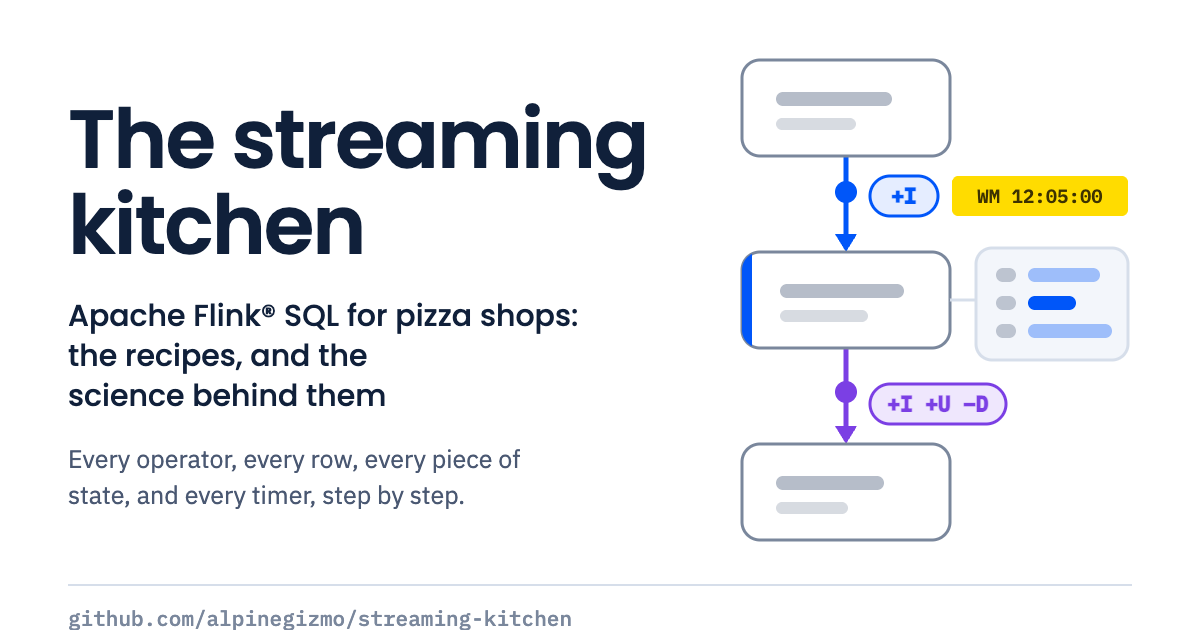
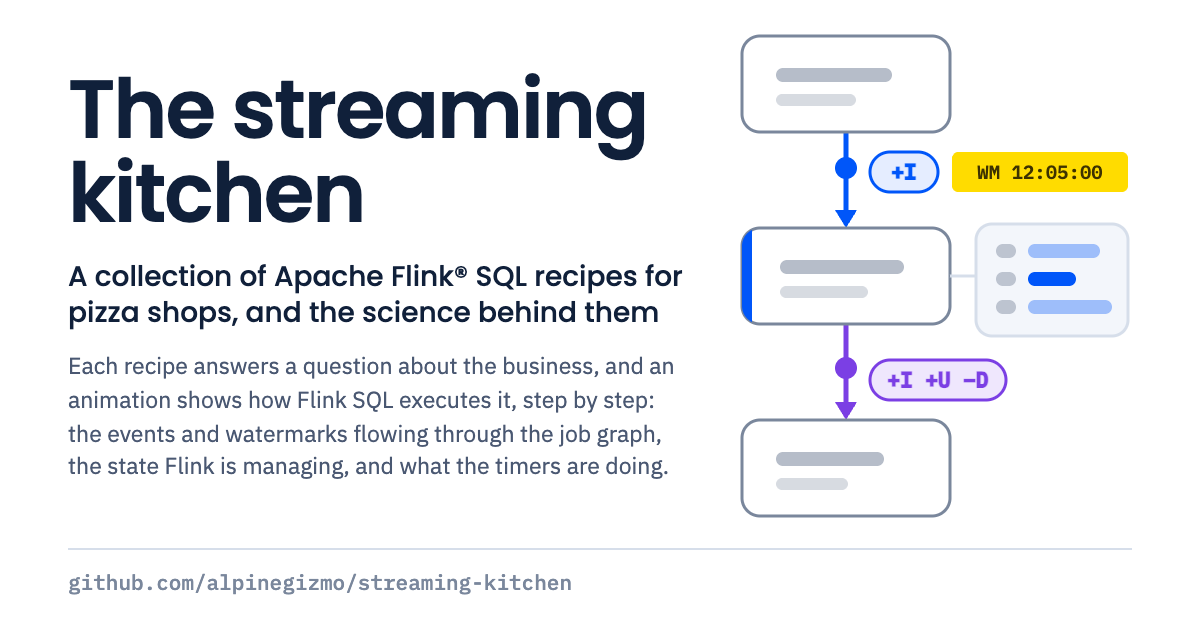
Call the recipes a collection, and update the share card to match
The subtitle, lede, and both meta descriptions use the new wording. The
page's subtitle fits on two lines beside the graph, and the share card
uses the new subtitle and lede, with its contents centred vertically.

diff --git a/index.html b/index.html
@@ -4,11 +4,11 @@
   <meta charset="utf-8">
   <meta name="viewport" content="width=device-width, initial-scale=1">
   <title>The streaming kitchen</title>
-  <meta name="description" content="Apache Flink® SQL for pizza shops: the recipes, and the science behind them. Animated job graphs, stream types, state, timers, and watermarks, with Apache Kafka® sources and sinks.">
+  <meta name="description" content="A collection of Apache Flink® SQL recipes for pizza shops, and the science behind them. Animated job graphs, stream types, state, timers, and watermarks, with Apache Kafka® sources and sinks.">
   <!-- The share card: images/share-card.png, made from tools/share-card.html. -->
   <meta property="og:type" content="website">
   <meta property="og:title" content="The streaming kitchen">
-  <meta property="og:description" content="Apache Flink® SQL for pizza shops: the recipes, and the science behind them. Every operator, every row, every piece of state, and every timer, step by step.">
+  <meta property="og:description" content="A collection of Apache Flink® SQL recipes for pizza shops, and the science behind them. Each recipe answers a question about the business, and an animation shows how Flink SQL executes it, step by step: the events and watermarks flowing through the job graph, the state Flink is managing, and what the timers are doing.">
   <meta property="og:url" content="https://alpinegizmo.github.io/streaming-kitchen/">
   <meta property="og:image" content="https://alpinegizmo.github.io/streaming-kitchen/images/share-card.png">
   <meta property="og:image:width" content="1200">
@@ -38,9 +38,9 @@
     <div class="hero-inner">
       <div class="hero-text">
         <h1>The streaming kitchen</h1>
-        <p class="subtitle"><span>Apache&nbsp;Flink® SQL for pizza shops:</span> <span>the recipes, and the science behind them</span></p>
-        <p class="lede">Each recipe answers a question about the business, gives the SQL,
-          and then shows everything Flink does, step by step: the events and watermarks flowing through
+        <p class="subtitle"><span>A collection of Apache&nbsp;Flink® SQL recipes for pizza shops,</span> <span>and the science behind them</span></p>
+        <p class="lede">Each recipe answers a question about the business, and an animation shows
+          how Flink SQL executes it, step by step: the events and watermarks flowing through
           the job graph, the state Flink is managing, and what the timers are doing.</p>
       </div>
       <!-- A job graph in miniature, drawn like the diagrams below; js/hero.js moves records through it. -->

diff --git a/tools/share-card.html b/tools/share-card.html
@@ -16,14 +16,14 @@
   }
   html, body { margin: 0; width: 600px; height: 315px; overflow: hidden; background: var(--paper); }
   .card {
-    box-sizing: border-box; width: 600px; height: 315px; padding: 28px 34px 18px;
+    box-sizing: border-box; width: 600px; height: 315px; padding: 16px 34px 17px;
     display: grid; grid-template-columns: 1fr 196px; grid-template-rows: 1fr auto; column-gap: 26px;
   }
   .text { align-self: center; }
   h1 { margin: 0; color: var(--ink); font: 600 41px/1.04 Poppins, sans-serif; letter-spacing: -0.025em; }
-  .sub { margin: 14px 0 0; color: var(--ink); font: 500 15px/1.32 Poppins, sans-serif; }
-  .sub span { display: inline-block; text-wrap: balance; }
-  .lede { margin: 12px 0 0; color: var(--ink-2); font: 400 12.5px/1.5 'IBM Plex Sans', sans-serif; max-width: 34ch; }
+  .sub { margin: 10px 0 0; color: var(--ink); font: 500 14px/1.3 Poppins, sans-serif; }
+  .sub { text-wrap: balance; }
+  .lede { margin: 10px 0 0; color: var(--ink-2); font: 400 11.5px/1.45 'IBM Plex Sans', sans-serif; text-wrap: pretty; }
   svg { align-self: center; justify-self: end; width: 196px; height: auto; overflow: visible; }
   .url {
     grid-column: 1 / -1; margin-top: 14px; padding-top: 9px; border-top: 1px solid var(--rule);
@@ -57,12 +57,12 @@
   <div class="card">
     <div class="text">
       <h1>The streaming<br>kitchen</h1>
-      <p class="sub"><span>Apache&nbsp;Flink® SQL for pizza shops:</span> <span>the recipes, and the science behind&nbsp;them</span></p>
-      <p class="lede">Every operator, every row, every piece of state, and every timer, step by step.</p>
+      <p class="sub">A collection of Apache&nbsp;Flink® SQL recipes for pizza shops, and the science behind&nbsp;them</p>
+      <p class="lede">Each recipe answers a question about the business, and an animation shows how Flink SQL executes it, step by step: the events and watermarks flowing through the job graph, the state Flink is managing, and what the timers are doing.</p>
     </div>
     <!-- The hero's job graph, drawn top to bottom as the page draws it on phones: append-only in,
          a stateful operator with its state, upsert out, and a watermark. -->
-    <svg viewBox="0 0 196 250" aria-hidden="true">
+    <svg viewBox="0 0 196 244" aria-hidden="true">
       <defs><clipPath id="op"><rect x="1" y="98" width="104" height="48" rx="9"/></clipPath></defs>
       <path class="hg-edge append" d="M53 50V90"/>
       <path class="hg-arrow append" d="M47.5 89 53 98 58.5 89Z"/>

diff --git a/css/style.css b/css/style.css
@@ -120,11 +120,13 @@ kbd { border: 1px solid var(--rule); border-bottom-width: 2px; border-radius: 4p
 .hero { border-bottom: 1px solid var(--rule); overflow: hidden; }
 .hero-inner { max-width: 1440px; margin: 0 auto; padding: 72px 24px 36px; }
 .hero h1 { font-size: clamp(2.1rem, 5.2vw, 3.6rem); letter-spacing: -0.025em; text-wrap: balance; }
-.subtitle { font-family: var(--font-display); font-weight: 500; font-size: clamp(1.15rem, 2.2vw, 1.5rem); line-height: 1.3; color: var(--ink); margin-top: 12px; }
-/* The subtitle breaks after the colon, and never sets the hero's width (which would push the
-   graph to the far right): each half stays together, and the whole is no wider than its second half. */
-.subtitle { max-width: 22em; }
-.subtitle span { display: inline-block; text-wrap: balance; }
+.subtitle { font-family: var(--font-display); font-weight: 500; font-size: clamp(1.15rem, 2.2vw, 1.375rem); line-height: 1.3; color: var(--ink); margin-top: 12px; }
+/* The subtitle breaks before "and the science", and never sets the hero's width (which would push
+   the graph to the far right): it fills the column the lede sets, each part starts a new line, and a
+   part wraps, balanced, only when it doesn't fit. At its largest size, the first part fits beside
+   the graph. */
+.subtitle { width: 0; min-width: 100%; }
+.subtitle span { display: block; text-wrap: balance; }
 .lede { font-size: 1.15rem; color: var(--ink-2); max-width: 58ch; margin-top: 18px; }
 
 /* The hero's job graph in miniature, beside the title when there's room. Records are drawn by js/hero.js. */
